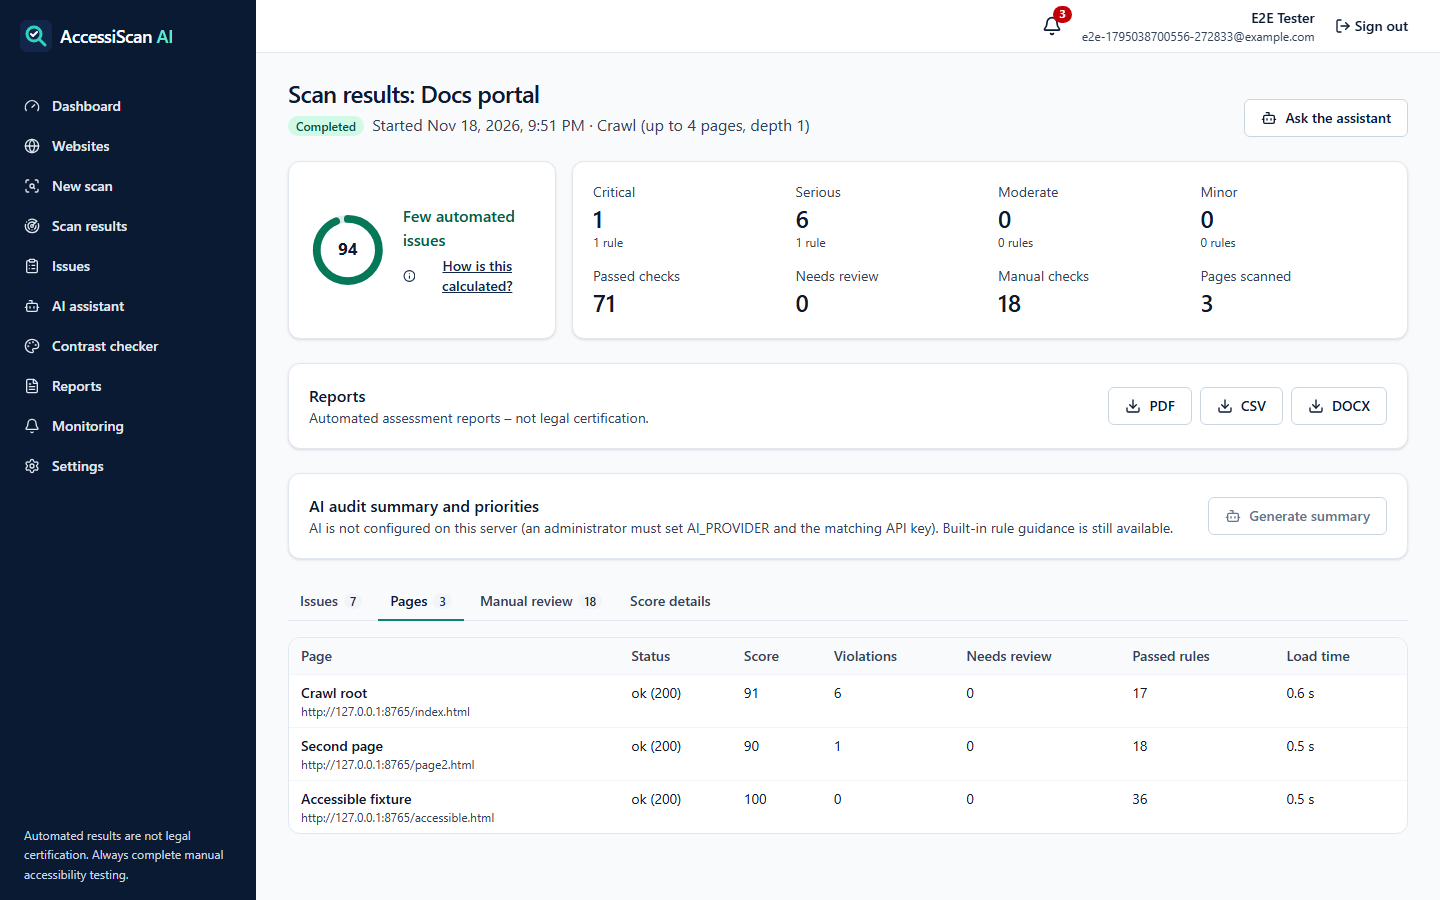
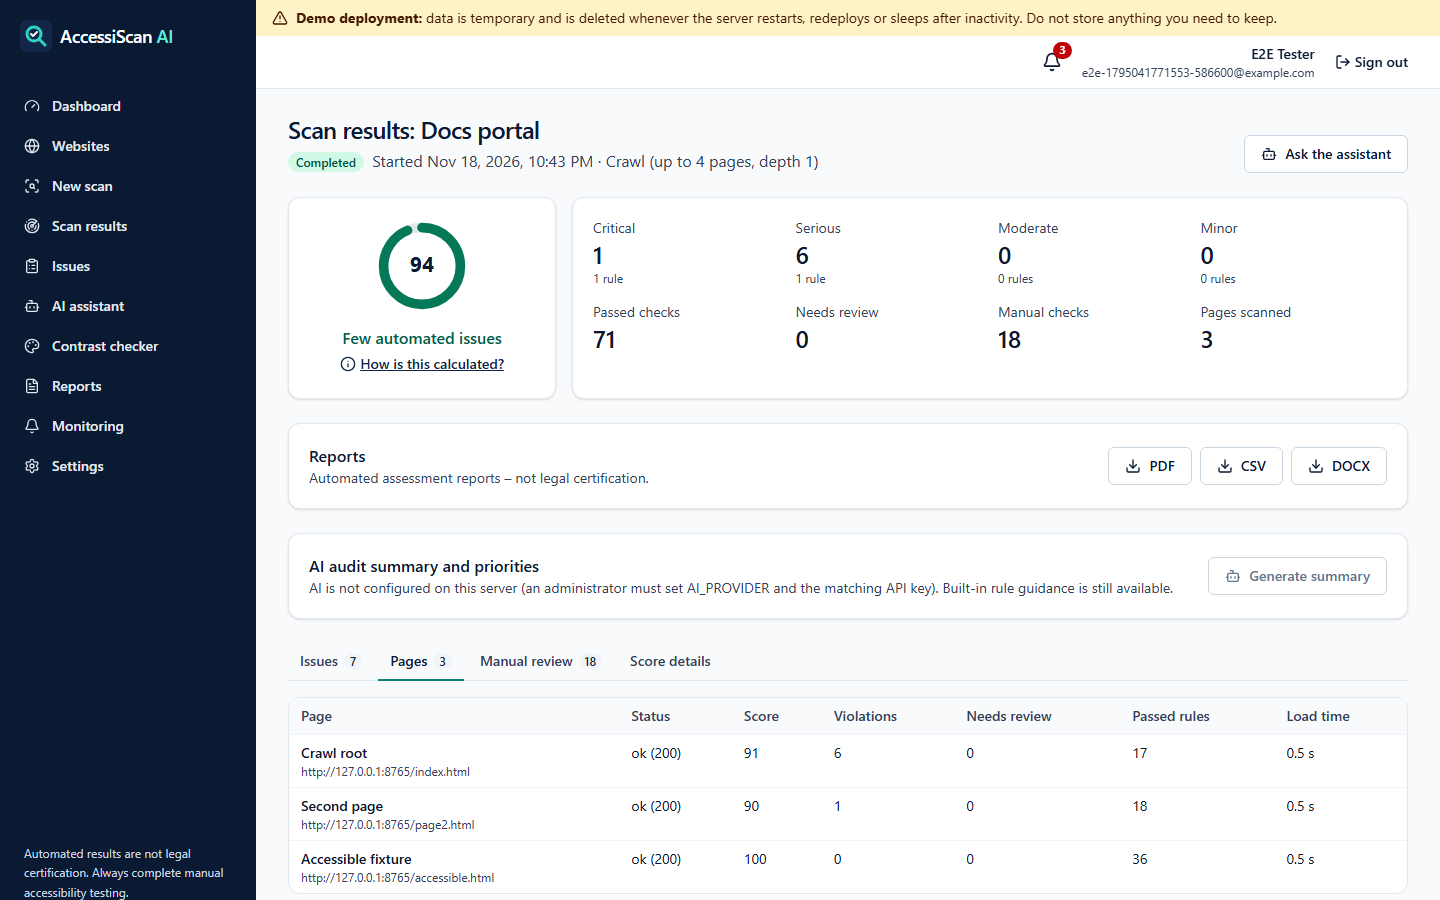
Stack the score card in the four-column layout; refresh screenshots
The score label overflowed the narrow card at common laptop widths.
Screenshot script now waits for the issue page before changing status.

diff --git a/frontend/src/pages/ScanResults.tsx b/frontend/src/pages/ScanResults.tsx
@@ -94,12 +94,12 @@ export default function ScanResults() {
         <section aria-labelledby="overview-h" className="mb-6">
           <h2 id="overview-h" className="sr-only">Overview</h2>
           <div className="grid gap-4 lg:grid-cols-4">
-            <Card className="flex items-center gap-4 lg:col-span-1">
+            <Card className="flex min-w-0 flex-col items-center gap-3 text-center sm:flex-row sm:text-left lg:col-span-1 lg:flex-col lg:text-center">
               <ScoreRing score={s.score} />
               <div>
                 <p className={`font-semibold ${band.className}`}>{band.label}</p>
-                <button type="button" onClick={() => setMethodOpen(true)} className="mt-1 flex items-center gap-1 text-sm font-medium text-navy-800 underline">
-                  <Info className="h-4 w-4 shrink-0" aria-hidden="true" /><span className="whitespace-nowrap">How is this calculated?</span>
+                <button type="button" onClick={() => setMethodOpen(true)} className="mt-1 inline-flex items-center gap-1 text-sm font-medium text-navy-800 underline">
+                  <Info className="h-4 w-4 shrink-0" aria-hidden="true" /><span>How is this calculated?</span>
                 </button>
               </div>
             </Card>

diff --git a/frontend/e2e/screenshots.spec.ts b/frontend/e2e/screenshots.spec.ts
@@ -37,6 +37,7 @@ test("capture screenshots", async ({ page }) => {
   await addSite("Demo storefront", `${FIXTURE}/violations.html`);
   await scan();
   await page.getByRole("link", { name: /Images must have alternative text/ }).first().click();
+  await expect(page.getByRole("heading", { level: 1, name: /Images must have alternative text/ })).toBeVisible();
   await page.getByRole("combobox", { name: "Status" }).selectOption("marked_fixed");
   await page.getByRole("button", { name: "Update status" }).click();
   await page.goto("/websites");
